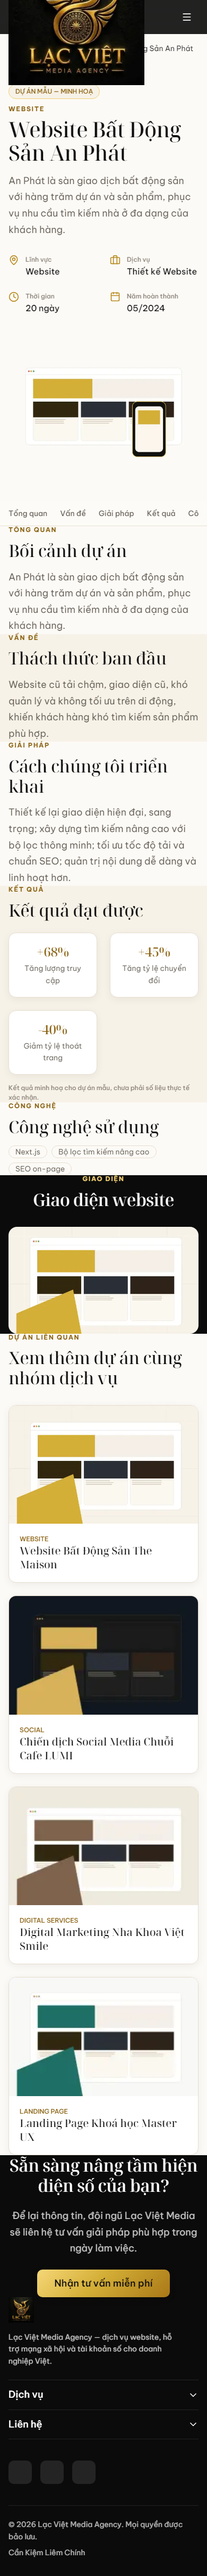
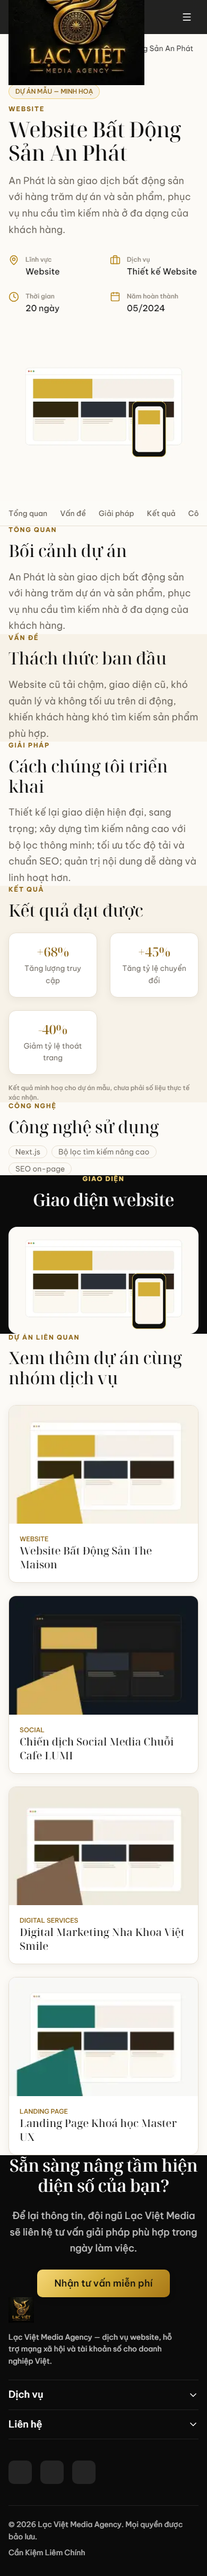
webby(gd10): fix 4 contract/functional defects per re-QA round 4
R4-01: /du-an/[slug] visual-showcase rendered project.heroAssetId, which
for the hidden An Phat fixture was project-cover-01 -- an identity-bound
PROJECT_COVER belonging to demo-project-01 (The Maison). Split detail
visual from grid cover in the data model (new Project.detailVisualAssetId);
An Phat now carries only its ASSET_USAGE_MAP-mapped DETAIL_VISUAL
(project-detail-device-master, presented `contain` per manifest). Visible
projects still use their own cover. No new asset, no substitution.

R4-02: route-fixtures ProjectPreview lacked the demoOnly tag CONTENT_TRUTH
requires for project/company mockups. demoOnly is now required and pinned
to literal `true`; set on all 12 preview fixtures and surfaced as
data-demo-only in markup. No badge -- the approved page-03/page-04 cards
have none (verified at 14x zoom).

R4-03: sitemap.ts mapped the raw arrays, advertising both hidden slug-only
fixtures. Switched to getVisibleProjects/getVisibleArticles and added
noindex metadata to hidden detail routes; they stay routable for QA.

R4-04: /kien-thuc filtered visibleArticles.slice(1) while also hiding the
featured section under a filter, so ?category=AI dropped the featured AI
article. Filtering now runs over the full visible set.

Tests: 28 -> 39. Added regression coverage for the knowledge filter,
hidden-fixture exclusion, noindex/sitemap, demoOnly tagging, and
detail-route asset identity -- each written to fail pre-fix.

Changed region(s): [[0.0615, 0.4678, 0.4615, 0.5302], [0.6154, 0.4678, 0.8308, 0.5302], [0.3692, 0.5613, 0.4, 0.5925]]

diff --git a/tests/functional.spec.ts b/tests/functional.spec.ts
@@ -127,6 +127,101 @@ test.describe("project/article filters", () => {
     await page.getByRole("button", { name: "Website", exact: true }).click();
     await expect(page).toHaveURL(/category=Website/);
   });
+
+  // GD10 re-QA round 4, R4-04: the featured article is index 0 of the visible set, and the
+  // featured section is hidden while a filter is active — so filtering must run over the FULL
+  // visible set, not visibleArticles.slice(1), or the featured article vanishes from its own
+  // category. Two AI articles exist; both must be present under ?category=AI.
+  test("AI category filter keeps the featured AI article in the results", async ({ page }) => {
+    await page.goto("/kien-thuc?category=AI");
+    const grid = page.locator("#article-grid");
+    await expect(grid.getByRole("heading", { name: /AI trong Marketing 2024/i })).toBeVisible();
+    await expect(grid.getByRole("heading", { name: /công cụ AI hỗ trợ marketing/i })).toBeVisible();
+    await expect(page.locator("#featured-article")).toHaveCount(0);
+  });
+
+  test("category filter excludes other categories", async ({ page }) => {
+    await page.goto("/kien-thuc?category=TikTok");
+    const grid = page.locator("#article-grid");
+    await expect(grid.getByRole("heading", { name: /follow TikTok/i })).toBeVisible();
+    await expect(grid.getByRole("heading", { name: /AI trong Marketing 2024/i })).toHaveCount(0);
+  });
+
+  // GD10 re-QA round 4, R4-03/R4-04: hidden detail-only fixtures stay directly routable but must
+  // never appear in a listing or filter result.
+  test("hidden detail-only article never appears in listings or filters", async ({ page }) => {
+    for (const url of ["/kien-thuc", "/kien-thuc?category=SEO"]) {
+      await page.goto(url);
+      await expect(page.getByRole("heading", { name: /10 yếu tố SEO quan trọng/i })).toHaveCount(0);
+    }
+    await page.goto("/kien-thuc?category=SEO");
+    await expect(page.locator("#article-grid").getByRole("heading", { name: /SEO Onpage là gì/i })).toBeVisible();
+  });
+
+  test("hidden detail-only project never appears in listings or filters", async ({ page }) => {
+    for (const url of ["/du-an", "/du-an?category=Website"]) {
+      await page.goto(url);
+      await expect(page.getByRole("heading", { name: "Website Bất Động Sản An Phát", exact: true })).toHaveCount(0);
+    }
+  });
+});
+
+test.describe("hidden fixtures stay direct-review only", () => {
+  const HIDDEN_ROUTES = [
+    "/du-an/website-bat-dong-san-an-phat",
+    "/kien-thuc/10-yeu-to-seo-quan-trong-giup-website-len-top-google",
+  ];
+
+  // R4-03: routable for QA review, but noindex so unverified demo content never becomes an
+  // indexed claim (SEO_CONTRACT.json).
+  for (const route of HIDDEN_ROUTES) {
+    test(`${route} is routable and marked noindex`, async ({ page }) => {
+      const response = await page.goto(route);
+      expect(response?.status()).toBeLessThan(400);
+      await expect(page.locator("h1")).toBeVisible();
+      await expect(page.locator('head meta[name="robots"]')).toHaveAttribute("content", /noindex/);
+    });
+  }
+
+  test("sitemap.xml excludes hidden fixtures but lists visible detail routes", async ({ page }) => {
+    const response = await page.goto("/sitemap.xml");
+    expect(response?.status()).toBeLessThan(400);
+    const xml = (await response?.text()) ?? "";
+    expect(xml).not.toContain("/du-an/website-bat-dong-san-an-phat");
+    expect(xml).not.toContain("/kien-thuc/10-yeu-to-seo-quan-trong-giup-website-len-top-google");
+    expect(xml).toContain("/du-an/website-bat-dong-san-the-maison");
+    expect(xml).toContain("/kien-thuc/seo-onpage-la-gi-15-yeu-to-quan-trong-can-toi-uu");
+  });
+});
+
+test.describe("content-truth tagging", () => {
+  // R4-02: every project/company preview mockup must carry demoOnly in data per
+  // CONTENT_TRUTH.json. The approved cards show no badge, so the tag is asserted in markup.
+  for (const route of ["/", "/website", "/du-an/website-bat-dong-san-an-phat"]) {
+    test(`${route} project preview cards are tagged demoOnly`, async ({ page }) => {
+      await page.goto(route);
+      const cards = page.locator('a[data-demo-only]');
+      expect(await cards.count()).toBeGreaterThan(0);
+      for (const card of await cards.all()) {
+        await expect(card).toHaveAttribute("data-demo-only", "true");
+      }
+    });
+  }
+});
+
+test.describe("detail-route asset identity", () => {
+  // R4-01: project-cover-01 is identity-bound to demo-project-01 (The Maison). The An Phát
+  // detail-only fixture must not render it anywhere on its route.
+  test("An Phát detail route does not consume The Maison's identity-bound cover", async ({ page }) => {
+    await page.goto("/du-an/website-bat-dong-san-an-phat");
+    const showcase = page.locator("#visual-showcase img");
+    await expect(showcase).toHaveCount(1);
+    await expect(showcase).toHaveAttribute("src", /project-detail-device-master/);
+    // The related-projects rail legitimately uses covers 01..04 per ASSET_USAGE_MAP; the
+    // showcase and hero must not.
+    const heroImg = page.locator("#case-study-hero img");
+    await expect(heroImg).toHaveAttribute("src", /project-detail-device-master/);
+  });
 });
 
 test.describe("reduced motion", () => {

diff --git a/src/content/route-fixtures.ts b/src/content/route-fixtures.ts
@@ -6,31 +6,37 @@
 // these as standalone "preview fixtures" — no new assets required, no full Project records
 // needed. They link to the general /du-an listing rather than a specific project detail page,
 // since no single project entity matches a fixture's caption at every page it appears on.
-export type ProjectPreview = { title: string; category: string; coverAssetId: string };
+// `demoOnly` is required and pinned to the literal `true`: every one of these captions is a
+// GĐ1 project/company mockup, which CONTENT_TRUTH.json requires be "tag[ged] in data as
+// demoOnly=true". Typing it as `true` rather than `boolean` makes it impossible to add a
+// preview fixture that silently claims to be a verified client (GD10 re-QA round 4, R4-02).
+// The approved master's preview cards carry no demo badge (verified against page-03/page-04 at
+// 14x zoom), so this stays a data/markup-level tag and does not change the card visual.
+export type ProjectPreview = { title: string; category: string; coverAssetId: string; demoOnly: true };
 
 // Home page-03 "Một số dự án chúng tôi đã thực hiện" labels.
 export const homeProjectShowcase: ProjectPreview[] = [
-  { title: "Website Bất Động Sản", category: "Bất động sản", coverAssetId: "project-cover-01" },
-  { title: "Website Nội Thất", category: "Nội thất", coverAssetId: "project-cover-02" },
-  { title: "Website Giáo Dục", category: "Giáo dục", coverAssetId: "project-cover-03" },
-  { title: "Landing Page Dịch Vụ", category: "Landing Page", coverAssetId: "project-cover-04" },
+  { title: "Website Bất Động Sản", category: "Bất động sản", coverAssetId: "project-cover-01", demoOnly: true },
+  { title: "Website Nội Thất", category: "Nội thất", coverAssetId: "project-cover-02", demoOnly: true },
+  { title: "Website Giáo Dục", category: "Giáo dục", coverAssetId: "project-cover-03", demoOnly: true },
+  { title: "Landing Page Dịch Vụ", category: "Landing Page", coverAssetId: "project-cover-04", demoOnly: true },
 ];
 
 // /website page-04 "Một số website chúng tôi đã thực hiện" labels.
 export const websiteProjectShowcase: ProjectPreview[] = [
-  { title: "An Phát Real Estate", category: "Website Bất động sản", coverAssetId: "project-cover-01" },
-  { title: "GreenMart Vietnam", category: "Website Bán hàng", coverAssetId: "project-cover-02" },
-  { title: "Isuu Education", category: "Website Giáo dục", coverAssetId: "project-cover-03" },
-  { title: "Dr. Wellness Clinic", category: "Website Y tế", coverAssetId: "project-cover-04" },
+  { title: "An Phát Real Estate", category: "Website Bất động sản", coverAssetId: "project-cover-01", demoOnly: true },
+  { title: "GreenMart Vietnam", category: "Website Bán hàng", coverAssetId: "project-cover-02", demoOnly: true },
+  { title: "Isuu Education", category: "Website Giáo dục", coverAssetId: "project-cover-03", demoOnly: true },
+  { title: "Dr. Wellness Clinic", category: "Website Y tế", coverAssetId: "project-cover-04", demoOnly: true },
 ];
 
 // ASSET_USAGE_MAP.json "/du-an/[slug]".relatedProjects — deterministic preview set, not
 // derived from the current project's category (GD10 re-QA round 3 item 7).
 export const relatedProjectPreview: ProjectPreview[] = [
-  { title: "Website Bất Động Sản The Maison", category: "Website", coverAssetId: "project-cover-01" },
-  { title: "Chiến dịch Social Media Chuỗi Cafe LUMI", category: "Social", coverAssetId: "project-cover-02" },
-  { title: "Digital Marketing Nha Khoa Việt Smile", category: "Digital Services", coverAssetId: "project-cover-03" },
-  { title: "Landing Page Khoá học Master UX", category: "Landing Page", coverAssetId: "project-cover-04" },
+  { title: "Website Bất Động Sản The Maison", category: "Website", coverAssetId: "project-cover-01", demoOnly: true },
+  { title: "Chiến dịch Social Media Chuỗi Cafe LUMI", category: "Social", coverAssetId: "project-cover-02", demoOnly: true },
+  { title: "Digital Marketing Nha Khoa Việt Smile", category: "Digital Services", coverAssetId: "project-cover-03", demoOnly: true },
+  { title: "Landing Page Khoá học Master UX", category: "Landing Page", coverAssetId: "project-cover-04", demoOnly: true },
 ];
 
 // ASSET_USAGE_MAP.json "/kien-thuc/[slug]".relatedArticles — approved page-11 visible labels,

diff --git a/src/app/(site)/du-an/[slug]/page.tsx b/src/app/(site)/du-an/[slug]/page.tsx
@@ -42,6 +42,7 @@ export async function generateMetadata({ params }: { params: Promise<{ slug: str
     title: project.title,
     description: project.summary,
     path: `/du-an/${slug}`,
+    noindex: project.hidden,
   });
 }
 
@@ -53,6 +54,12 @@ export default async function ProjectDetailPage({ params }: { params: Promise<{ 
   // ASSET_USAGE_MAP.json "/du-an/[slug]".relatedProjects = project-cover-01..04, deterministic
   // — not a same-category derivation (GD10 re-QA round 3 item 7).
   const related = relatedProjectPreview.filter((p) => p.title !== project.title);
+
+  // A project's own identity-bound cover is legitimate here; a detail-only fixture supplies its
+  // own mapped DETAIL_VISUAL instead of borrowing one (GD10 re-QA round 4, R4-01). The device
+  // master is presented `contain` per asset-manifest.json presentationByUsage, not `cover`.
+  const showcaseAssetId = project.detailVisualAssetId ?? project.heroAssetId;
+  const showcaseFit = showcaseAssetId === "project-detail-device-master" ? "object-contain" : "object-cover";
 
   return (
     <>
@@ -219,8 +226,8 @@ export default async function ProjectDetailPage({ params }: { params: Promise<{ 
         <Container>
           <SectionHeading onDark eyebrow="Giao diện" title="Giao diện website" align="center" />
           <div className="relative mt-8 aspect-[16/9] w-full overflow-hidden rounded-lg">
-            {project.heroAssetId ? (
-              <Image src={assetPath(project.heroAssetId)} alt={`Minh hoạ giao diện ${project.title}`} fill className="object-cover" />
+            {showcaseAssetId ? (
+              <Image src={assetPath(showcaseAssetId)} alt={`Minh hoạ giao diện ${project.title}`} fill className={showcaseFit} />
             ) : null}
           </div>
         </Container>

diff --git a/src/app/(site)/kien-thuc/page.tsx b/src/app/(site)/kien-thuc/page.tsx
@@ -32,7 +32,12 @@ export default async function KnowledgePage({
   const { category } = await searchParams;
   const active = category && categories.includes(category) ? category : "all";
   const featured = visibleArticles[0]!;
-  const rest = visibleArticles.slice(1).filter((a) => active === "all" || a.category === active);
+  // The featured card is part of the unfiltered "all" composition only. Under a category filter
+  // the FULL visible set must be filtered — slicing index 0 off first dropped the featured
+  // article from its own category's results (e.g. ?category=AI lost the AI featured article),
+  // since the featured section is also hidden while filtering (GD10 re-QA round 4, R4-04).
+  // getVisibleArticles() already excludes hidden fixtures, so they never surface in filters.
+  const grid = active === "all" ? visibleArticles.slice(1) : visibleArticles.filter((a) => a.category === active);
 
   return (
     <>
@@ -89,7 +94,7 @@ export default async function KnowledgePage({
         <Container>
           <SectionHeading eyebrow="Bài viết mới nhất" title="Kiến thức mới cập nhật" />
           <div className="mt-8">
-            <ArticleGrid articles={rest} />
+            <ArticleGrid articles={grid} />
           </div>
         </Container>
       </Section>

diff --git a/src/app/sitemap.ts b/src/app/sitemap.ts
@@ -1,7 +1,7 @@
 import type { MetadataRoute } from "next";
 import { siteSettings } from "@/lib/site-settings";
-import { projects } from "@/content/projects";
-import { articles } from "@/content/articles";
+import { getVisibleProjects } from "@/content/projects";
+import { getVisibleArticles } from "@/content/articles";
 
 const STATIC_ROUTES = [
   "/",
@@ -20,11 +20,14 @@ export default function sitemap(): MetadataRoute.Sitemap {
     url: `${origin}${path}`,
     lastModified: new Date(),
   }));
-  const projectEntries = projects.map((p) => ({
+  // Hidden detail-only fixtures stay routable for direct QA review but must never be advertised
+  // for indexing — SEO_CONTRACT.json forbids unverified demo previews becoming indexed claims
+  // (GD10 re-QA round 4, R4-03). They are additionally marked noindex in their own metadata.
+  const projectEntries = getVisibleProjects().map((p) => ({
     url: `${origin}/du-an/${p.slug}`,
     lastModified: new Date(),
   }));
-  const articleEntries = articles.map((a) => ({
+  const articleEntries = getVisibleArticles().map((a) => ({
     url: `${origin}/kien-thuc/${a.slug}`,
     lastModified: new Date(a.publishedAt),
   }));

diff --git a/src/content/projects.ts b/src/content/projects.ts
@@ -158,7 +158,12 @@ export const projects: Project[] = [
     summary: "An Phát là sàn giao dịch bất động sản với hàng trăm dự án và sản phẩm, phục vụ nhu cầu tìm kiếm nhà ở đa dạng của khách hàng.",
     demoOnly: true,
     hidden: true,
-    heroAssetId: "project-cover-01",
+    // No heroAssetId: this fixture never appears in a grid, and project-cover-01 is
+    // identity-bound to demo-project-01 (The Maison) — borrowing it leaked that identity into
+    // this route's visual-showcase (GD10 re-QA round 4, R4-01). ASSET_USAGE_MAP.json maps this
+    // route's detail visual to project-detail-device-master, the only non-identity-bound
+    // DETAIL_VISUAL available for /du-an/[slug].
+    detailVisualAssetId: "project-detail-device-master",
     durationLabel: "20 ngày",
     completedLabel: "05/2024",
     challenge: "Website cũ tải chậm, giao diện cũ, khó quản lý và không tối ưu trên di động, khiến khách hàng khó tìm kiếm sản phẩm phù hợp.",

diff --git a/src/components/content/ProjectPreviewCard.tsx b/src/components/content/ProjectPreviewCard.tsx
@@ -10,6 +10,10 @@ export function ProjectPreviewCard({ preview }: { preview: ProjectPreview }) {
   return (
     <Link
       href="/du-an"
+      // Demo state is carried in data/markup, not as a badge: the approved page-03/page-04
+      // preview cards show no badge, and re-QA round 4 (R4-02) required tagging without
+      // redesigning the card.
+      data-demo-only={preview.demoOnly}
       className="group flex flex-col overflow-hidden rounded-md border border-border bg-white shadow-sm transition-[transform,box-shadow,border-color] duration-fast ease-standard hover:-translate-y-[3px] hover:border-gold-300 hover:shadow-md"
     >
       <div className="relative aspect-[16/10] w-full overflow-hidden bg-ivory-100">

diff --git a/src/lib/seo.ts b/src/lib/seo.ts
@@ -6,17 +6,22 @@ export function pageMetadata({
   description,
   path,
   ogImagePath,
+  noindex,
 }: {
   title: string;
   description: string;
   path: string;
   ogImagePath?: string;
+  /** Direct-review-only routes (hidden demo detail fixtures) — keeps them routable for QA while
+   * preventing unverified demo content from becoming an indexed claim per SEO_CONTRACT.json. */
+  noindex?: boolean;
 }): Metadata {
   const url = `${siteSettings.canonicalOrigin}${path}`;
   return {
     title,
     description,
     alternates: { canonical: url },
+    robots: noindex ? { index: false, follow: false } : undefined,
     openGraph: {
       title,
       description,

diff --git a/src/lib/types.ts b/src/lib/types.ts
@@ -24,6 +24,11 @@ export type Project = {
   summary: string;
   demoOnly: boolean;
   heroAssetId?: string;
+  /** Large detail-route visual, separate from the grid cover. `heroAssetId` is an
+   * identity-bound PROJECT_COVER belonging to exactly one project, so a detail-only fixture
+   * must never borrow another project's cover here — it carries its own ASSET_USAGE_MAP-mapped
+   * DETAIL_VISUAL instead (GD10 re-QA round 4, R4-01). */
+  detailVisualAssetId?: string;
   challenge?: string;
   solution?: string;
   results?: string[];

diff --git a/src/app/(site)/kien-thuc/[slug]/page.tsx b/src/app/(site)/kien-thuc/[slug]/page.tsx
@@ -26,6 +26,7 @@ export async function generateMetadata({ params }: { params: Promise<{ slug: str
     title: article.seoTitle ?? article.title,
     description: article.seoDescription ?? article.excerpt,
     path: `/kien-thuc/${slug}`,
+    noindex: article.hidden,
   });
 }
 
